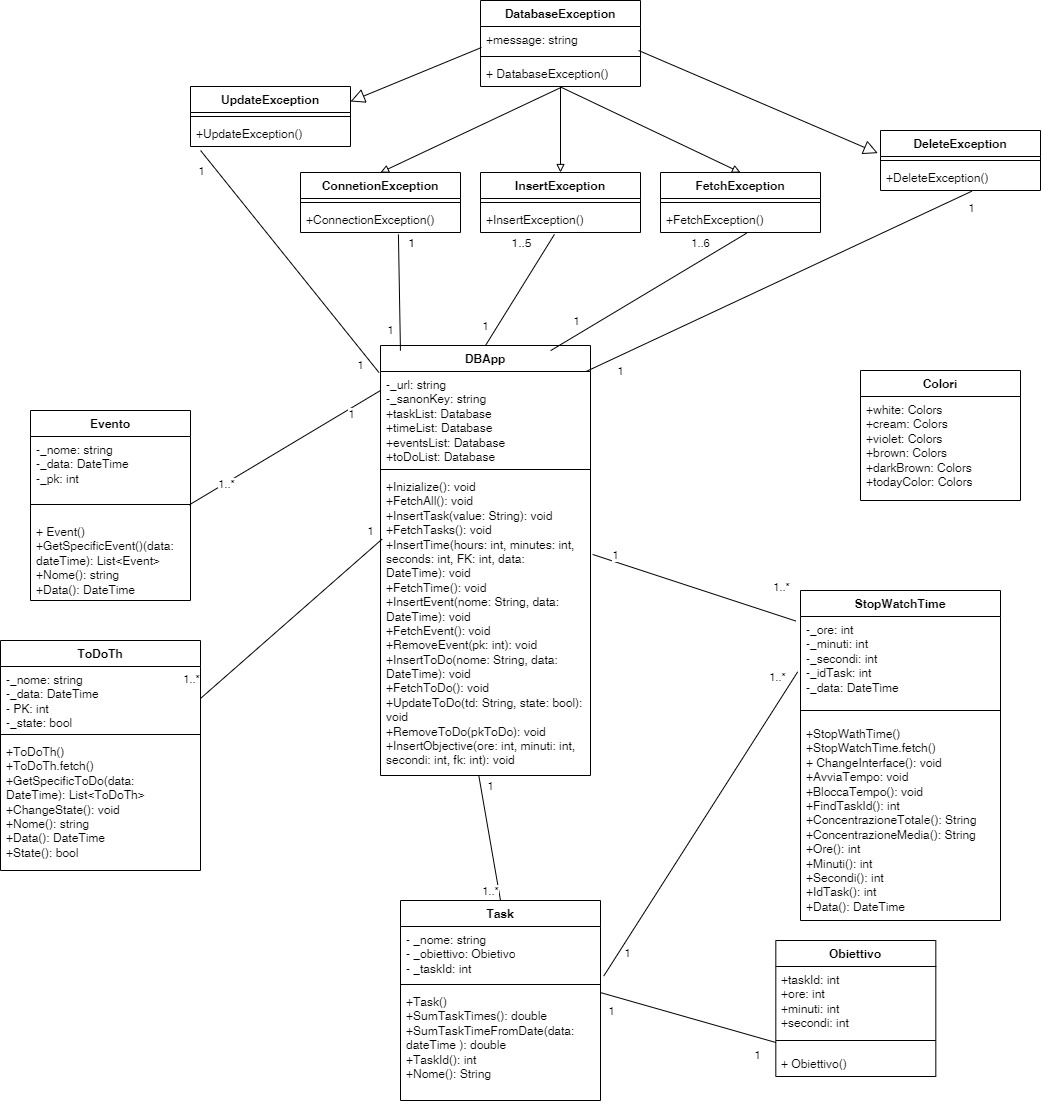
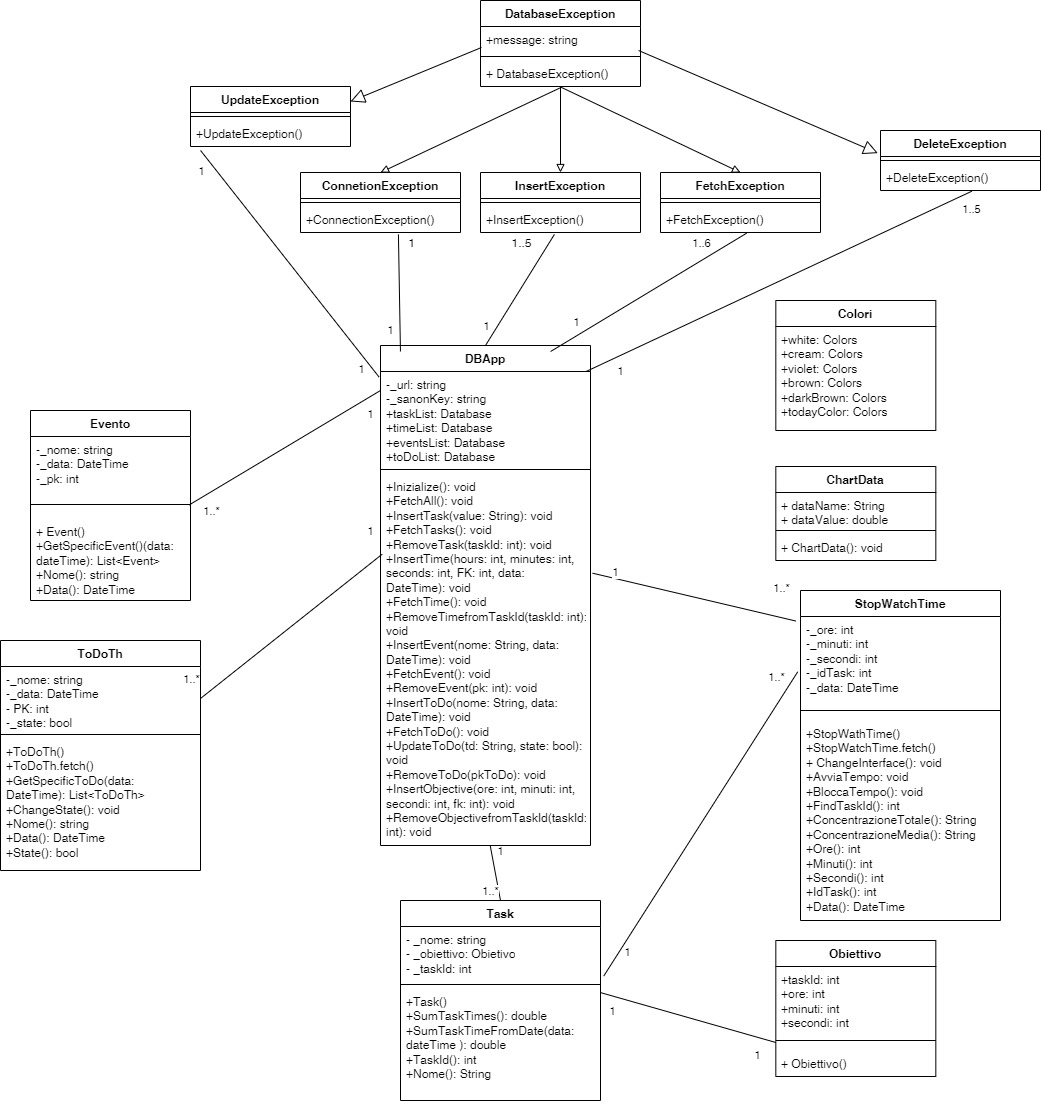
.

diff --git a/lib/Task.dart b/lib/Task.dart
@@ -47,9 +47,9 @@ class Task
     DBApp.timeList.where((times) => times.Data.year == time.year && times.Data.month == time.month && times.Data.day == time.day).toList();
 
     if(a.isEmpty){return 0;}
-    return ((a.map((item) => item.Ore).reduce((a, b) => a*3600 + b*3600))
-        +(a.map((item) => item.Minuti).reduce((a, b) => a*60 + b*60))
-        +(a.map((item) => item.Secondi).reduce((a, b) => a + b))).toDouble();
+    return ((a.map((item) => item.Ore).reduce((a, b) => a + b))
+        +(a.map((item) => item.Minuti).reduce((a, b) => a + b)/60)
+        +(a.map((item) => item.Secondi).reduce((a, b) => a + b)/3600)).toDouble();
 
   }
 

diff --git a/lib/pages/Analytics.dart b/lib/pages/Analytics.dart
@@ -29,7 +29,7 @@ class AnalyticsPageState extends State<AnalyticsPage>
     }
 
     for(int i = 0; i < 7; i++){
-      scndChartData.add(FlSpot((i+1).toDouble(), Task.SumTasksTimeFromDate(DateTime.now().subtract(Duration(days: i)))));
+      scndChartData.add(FlSpot((i+1).toDouble(), (Task.SumTasksTimeFromDate(DateTime.now().subtract(Duration(days: i)))*math.pow(10, 1)).round()/math.pow(10, 1)));
     }
     if(scndChartData.isEmpty){print("La lista dei dati è vuota");}
     return Scaffold(

diff --git a/README.md b/README.md
@@ -9,7 +9,7 @@
     <img src="Docimg/Copertina.png"/>
 </div>
 
-### Che cos'è Task Trek?
+## Che cos'è Task Trek?
 Si tratta di un'applicazione volta alla gestione del tempo in modo ottimale
 grazie a degli strumenti pensati appositamente, prendendo anche spunto, non lo
 nascondo, da altre applicazioni simili. <br>
@@ -17,7 +17,7 @@ L'idea che ha mosso principalmente l'idea per la nascita del progetto è stata q
 di creare un'applicazione di questo genere, di cui ne esistono già molte, ma rendere
 accessibili quelle funzioni che sulle altre applicazioni, di solito, per essere
 utilizzate devono essere pagate. 
-### UML delle Classi
+## UML delle Classi
 <img src="Docimg/DiagrammadelleClassi.jpg">
 In questo diagramma possiamo osservare le varie classi utilizzate per questo progetto:
 è evidente come quella principale che comunica con tutte le altre sia DBApp, ovvero la classe
@@ -37,11 +37,12 @@ inserire una lista come le classiche ToDoList che potete trovare in giro. Evento
 registrare i vari eventi che saranno poi visualizzabili nella sezione calendario dell'applicazione.<br><br>
 Abbiamo infine le classi per generare le eccezioni in caso di errore per qualche operazione all'interno della classe del
 DataBase(Chiaramente le eccezioni sono personalizzate e indirizzate a ogni possibile errore che possa verificarsi nell'interazione)
-e la classe Colori che è una semplice classe per la gestione dei colori dell'applicazione: questo consente di avere uno standard e
-anche un punto accessibile per cambiare in qualsiasi momento i colori all'applicazione in modo veloce, cosa molto utile nella definizione
-di, ad esempio, dei temi.
+e due classi considerabili come indipendenti che sono la classe Colori, ovvero una semplice classe per la gestione dei colori dell'applicazione: questo consente di avere uno standard e
+anche un punto accessibile per cambiare in qualsiasi momento i colori della palette in modo veloce, cosa molto utile nella definizione
+di, ad esempio, dei temi, e la classe ChartData, ovvero una classe le qui istanze vengono utilizzate come dati per i grafici nella sezione
+Analytics dell'applicazione.
 
-### UML dei Casi D'uso
+## UML dei Casi D'uso
 <img src="Docimg/DiagrammaDeiCasiDuso.jpg"><br>
 All’interno del diagramma dei casi d’uso possiamo trovare quattro casi d’uso principali: Gestione Task, Avviare il timer, Gestione Eventi, Gestione Insights. 
 Ognuno di questi a sua volta include o estende altri casi d'uso. Ad esempio “Gestione Task” è un caso incluso tramite l'include ciò significa che fa parte del 
@@ -56,7 +57,7 @@ quindi quello principale che in questo caso è “Avviare il timer” si modera 
 Eventi” viene collegato con un include al caso “Visualizzare calendario Eventi” che a sua volte possiede delle estensioni come il caso “Creare nuovi 
 Eventi”, “Eliminare Eventi già creati”, “Modificare Eventi già esistenti”. Infine il caso d’uso “Gestione Insights” include il caso “Visualizzare dati”. 
 Per concludere tutti e i quattro casi d’uso principali sono collegati tramite una assegnazione a un attore che in questo caso è chiamato “User”.
-### Features
+## Features
 1. ⌚Tenere traccia del tempo di concentrazione e della gestione delle pause.
 2. 📅Gestire al meglio i propri impegni con la sezione dedicata del calendario.
 3. ✅Fare una lista delle attività giornaliere che ci si propone di portare a compimento nella
@@ -74,7 +75,7 @@ di [SupaBase](https://supabase.com/).
 creazione dei vari grafici nella sezione analytics dell'applicazione, creata appositamente per documentare graficamente 
 i propri progressi e il raggiungimento dei propri obiettivi.
 
-### Funzionamento dello Script
+## Funzionamento dello Script
 Ogni pagina ha al suo interno un Stack utilizzato per la creazione di una Bottom NavBar personalizzata,
 la quale a sua volta è stata scritta dentro un file apposito dove si trovano tutti i Widget standard utilizzati
 in più pagine come anche l'app bar. <br> <br>
@@ -85,4 +86,31 @@ L'applicazione comunica inoltre con un DataBase in cloud Hosting grazie al servi
 creata, per questa comunicazione, una classe apposita che di chiama DBApp e che al suo interno ha un metodo per 
 inizializzare l'istanza che permette di comunicare con il DataBase e tutte le funzioni per scaricare, caricare, 
 eliminare e modificare eventuali record sulle tabelle. Sono state create anche delle classi per generare delle
-eccezioni apposite in caso di mal funzionamento, utili soprattutto in fase di scrittura del codice.
+eccezioni apposite in caso di mal funzionamento, utili soprattutto in fase di scrittura del codice.<br>
+Osserviamo ora il comportamento delle altre classi con cui DBApp comunica:
+### Classe Evento
+**Metodo getSpecificEvent(DateTime data)**:
+Come parametro richiede una data espressa col tipo DateTime e la sua funzione è quella di ottenere gli eventi, ritornando
+quindi un'altra lista, della list all'interno di DBApp che hanno la data specificata come parametro al metodo.
+### Classe Obiettivo
+Questa classe viene utilizzata principalmente per memorizzare i dati inerenti a un obiettivo correlato a una data
+task, inclusi l'ID della task a cui fa riferimento e le ore, i minuti e i secondi che l'utente ha scelto di fissare.
+### Classe StopWatchTime
+**Metodo avviaTempo(int taskId)**:
+Richiede come parametro l'ID di una task e ha lo scopo di far partire un cronometro che registrerà il tempo per cui
+viene svolta l'attività. <br> <br>
+**Metodo bloccaTempo()**:
+Non richiede nessun parametro e ha semplicemente lo scopo di bloccare lo scorrimento del cronometro e richiamare il metodo
+nella classe DBApp per inserire il valore nek DataBase. <br><br>
+**Metodo findTaskId(String searchString)**: 
+Come parametro richiede la stringa che corrisponde al nome della Task da trovare. Una volta scansionata la lista di Task, che
+si trova sempre nella classe DBApp, restituisce l'Id che corrisponde alla task cui nome era il parametro del metodo.
+**Metodo ConcentrazioneTotale() e Metodo ConcentrazioneMedia()**:
+Si occupano rispettivamente di sommare tutti i tempi nella lista apposita e di ritornare quella somma e di fare la media matematica
+(quindi prima sommando e poi dividendo per il numero di tempi totali) dei tempi dentro la lista e ritornandone il valore.
+### Classe Task
+**Metodo SumTaskTimes()**:
+Calcola la somma totale dei tempi, filtrandoli nella lista dei tempi, dell'istanza corrente di task.
+**Metodo SumTasksTimeFromDate(DateTime time)**:
+Come parametro richiede una data e si occupa di sommare tutti i tempi registrati in quella data, convertendo il tutto in ore
+e ritornandone il valore
